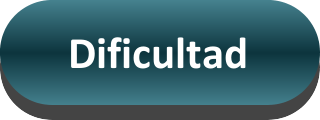
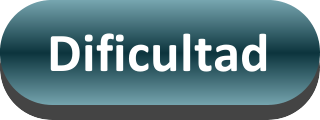
Botones agregados

diff --git a/core/src/mx/itexm/naughty/PantallaMenu.java b/core/src/mx/itexm/naughty/PantallaMenu.java
@@ -1,5 +1,6 @@
 package mx.itexm.naughty;
 
+import com.badlogic.gdx.Gdx;
 import com.badlogic.gdx.Screen;
 import com.badlogic.gdx.graphics.Texture;
 import com.badlogic.gdx.graphics.g2d.TextureRegion;
@@ -20,6 +21,7 @@ class PantallaMenu extends Pantalla {
     @Override
     public void show() {
         crearEscena();
+        Gdx.input.setInputProcessor(escenaMenu);
     }
 
     private void crearEscena() {
@@ -27,20 +29,37 @@ class PantallaMenu extends Pantalla {
         //Botones normales
         Texture textBtnPlay = new Texture("jugar.png");
         Texture textBtnCredit = new Texture("creditos.png");
+        Texture textBtnDificult = new Texture("dificultad.png");
+        Texture textBtnOptions = new Texture("opciones.png");
+
         TextureRegionDrawable trdP = new TextureRegionDrawable(new TextureRegion(textBtnPlay));
         TextureRegionDrawable trdC = new TextureRegionDrawable(new TextureRegion(textBtnCredit));
+        TextureRegionDrawable trdD = new TextureRegionDrawable(new TextureRegion(textBtnDificult));
+        TextureRegionDrawable trdO = new TextureRegionDrawable(new TextureRegion(textBtnOptions));
+
+
         //Botones suprimidos
         Texture textBtnPlayS = new Texture("jugar_s.png");
         Texture textBtnCreditS = new Texture("creditos_s.png");
+        Texture textBtnDificultS = new Texture("dificultad_s.png");
+        Texture textBtnOptionS = new Texture("opciones_s.png");
         TextureRegionDrawable trdPs = new TextureRegionDrawable(new TextureRegion(textBtnPlayS));
         TextureRegionDrawable trdCs = new TextureRegionDrawable(new TextureRegion(textBtnCreditS));
+        TextureRegionDrawable trdDs = new TextureRegionDrawable(new TextureRegion(textBtnDificultS));
+        TextureRegionDrawable trdOs = new TextureRegionDrawable(new TextureRegion(textBtnOptionS));
 
         ImageButton btnPlay = new ImageButton(trdP, trdPs);
         ImageButton btnCredit = new ImageButton(trdC, trdCs);
+        ImageButton btnDificult = new ImageButton(trdD, trdDs);
+        ImageButton btnOptions = new ImageButton(trdO, trdOs);
+
+
 
         //Posicion
-        btnPlay.setPosition(ANCHO/7-btnPlay.getWidth()/2, 0.8f*ALTO);
-        btnCredit.setPosition(ANCHO/7-btnPlay.getWidth()/2, 0.60f*ALTO);
+        btnPlay.setPosition(ANCHO/2-btnPlay.getWidth()/2, 0.8f*ALTO-btnPlay.getHeight()/2);
+        btnCredit.setPosition(ANCHO/2-btnCredit.getWidth()/2, 0.60f*ALTO-btnCredit.getHeight()/2);
+        btnDificult.setPosition(ANCHO/2-btnDificult.getWidth()/2, 0.40f*ALTO-btnDificult.getHeight()/2);
+        btnOptions.setPosition(ANCHO/2-btnOptions.getWidth()/2, 0.20f*ALTO-btnOptions.getHeight()/2);
 
 
         //Acciones Boton
@@ -54,6 +73,8 @@ class PantallaMenu extends Pantalla {
 
         escenaMenu.addActor(btnPlay);
         escenaMenu.addActor(btnCredit);
+        escenaMenu.addActor(btnDificult);
+        escenaMenu.addActor(btnOptions);
     }
 
     @Override
